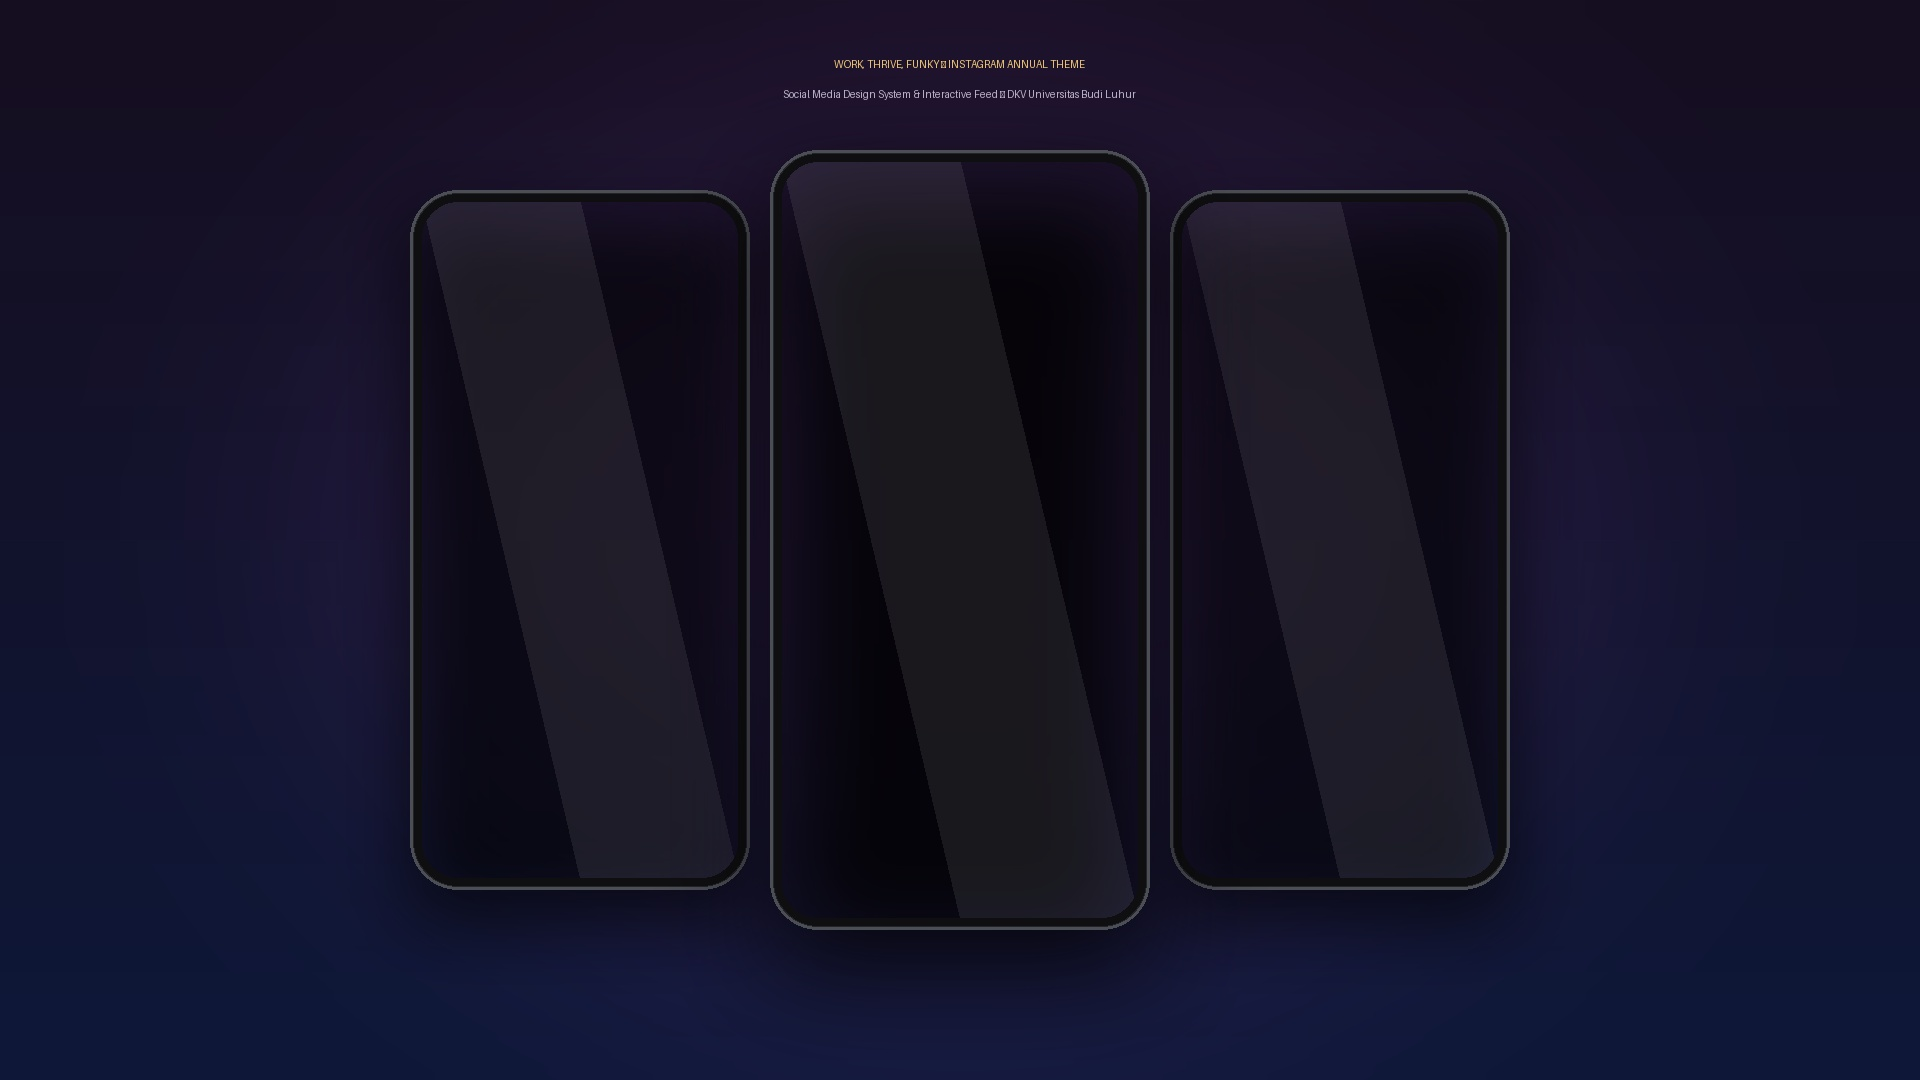
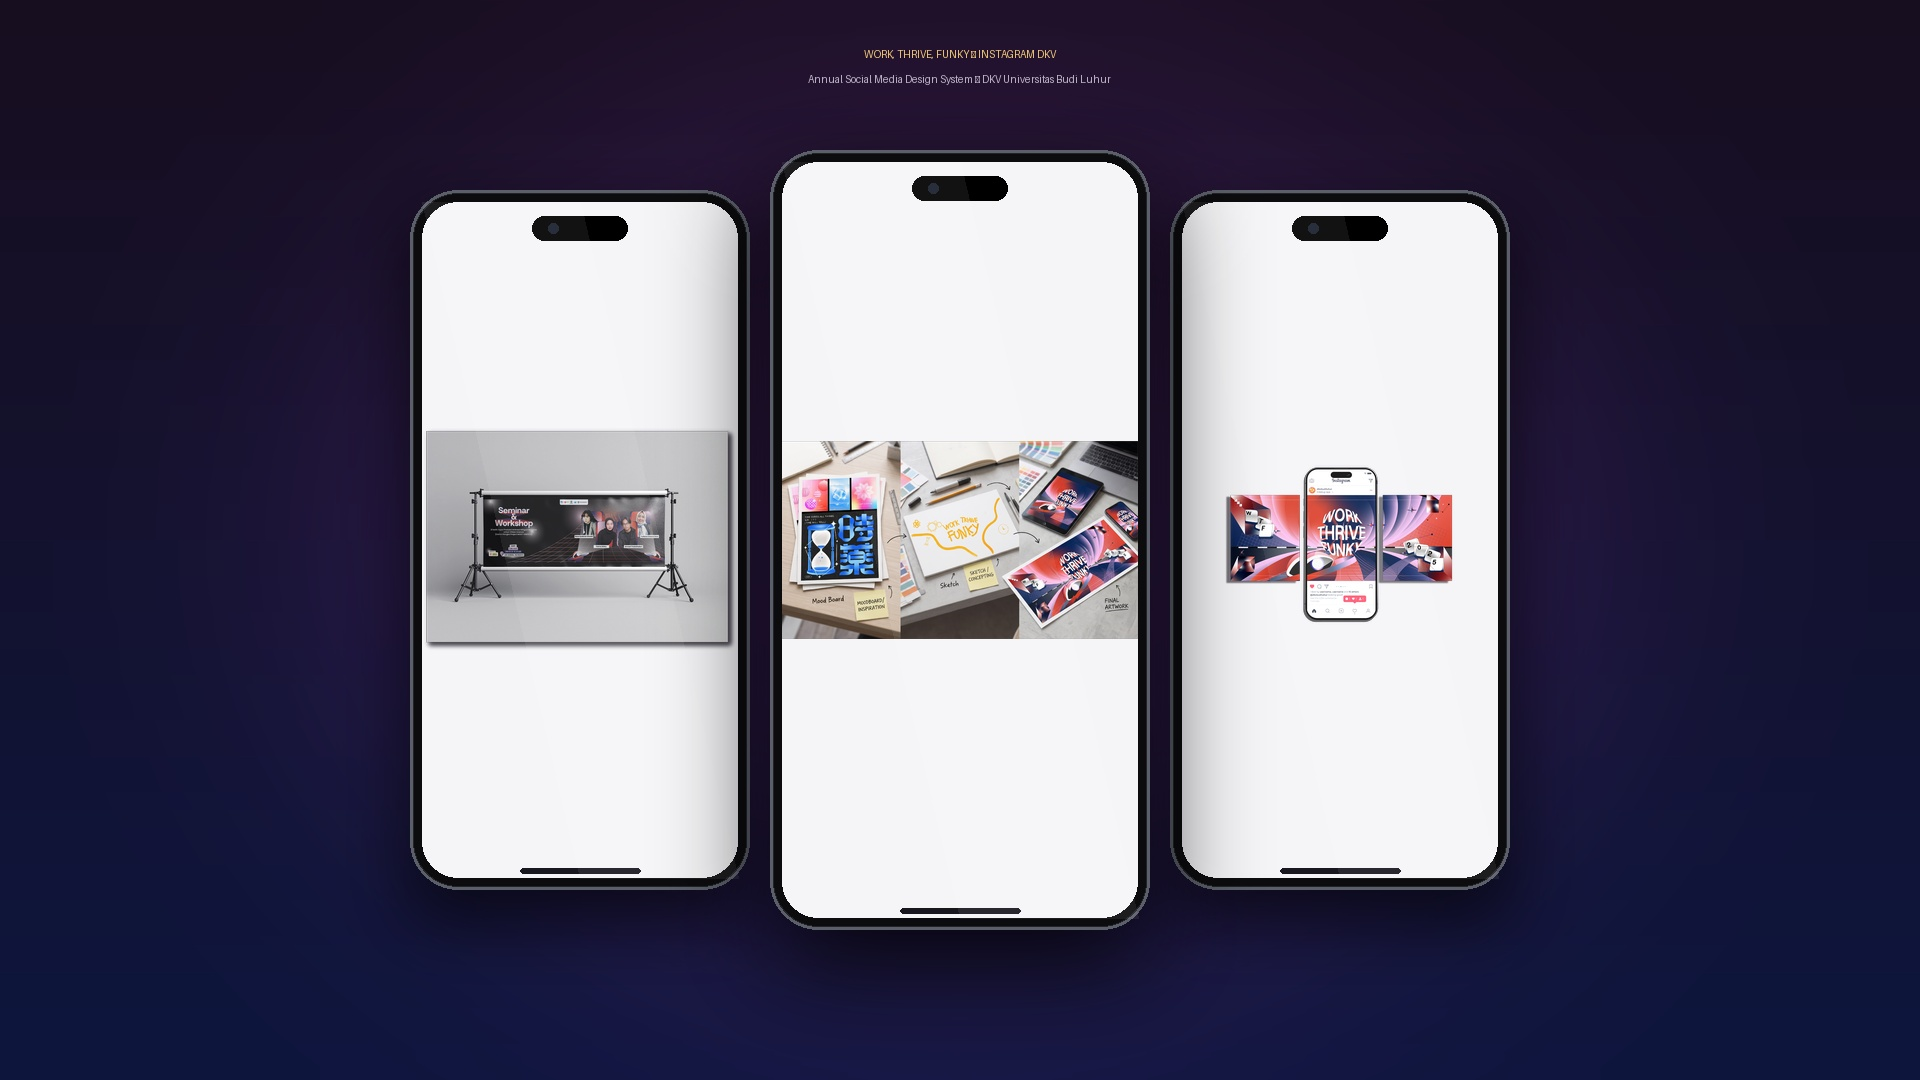
Filter gallery to exclusively display actual event folders with event title badges

diff --git a/index.html b/index.html
@@ -433,8 +433,8 @@
           </div>
         </div>
 
-        <!-- Gallery Grid -->
-        <div class="grid grid-cols-1 sm:grid-cols-2 lg:grid-cols-3 gap-6" id="portfolioGrid">
+        <!-- Gallery Grid (Hanya Event Asli dari Folder) -->
+        <div class="grid grid-cols-1 md:grid-cols-2 gap-8 max-w-5xl mx-auto" id="portfolioGrid">
           
           <!-- Event 1: EUFORATIVE -->
           <div class="portfolio-item group cursor-pointer relative rounded-2xl overflow-hidden cosmic-card border border-[#C9A24B]/30 hover:border-[#E5C368]"
@@ -450,7 +450,7 @@
             <div class="aspect-[16/10] overflow-hidden bg-black relative">
               <img src="assets/events/euforative/mockup-standing-banners.jpg" alt="EUFORATIVE Mockup" class="w-full h-full object-cover group-hover:scale-105 transition duration-500" />
               <div class="absolute inset-0 bg-gradient-to-t from-black/90 via-black/30 to-transparent opacity-60 group-hover:opacity-90 transition-opacity"></div>
-              <span class="absolute top-4 left-4 text-[10px] font-arcane font-bold tracking-wider uppercase px-2.5 py-1 rounded-full bg-[#8F1D33]/85 text-[#F7F2EA] border border-[#C9A24B]/40 shadow-sm">Key Visual</span>
+              <span class="absolute top-4 left-4 text-[10px] font-galaxy font-bold tracking-wider uppercase px-3 py-1 rounded-full bg-[#8F1D33]/90 text-[#F7F2EA] border border-[#C9A24B]/40 shadow-sm">EUFORATIVE</span>
               <span class="absolute top-4 right-4 text-[11px] font-semibold px-2.5 py-0.5 rounded-md bg-black/70 text-cosmic-brightGold border border-[#C9A24B]/30 flex items-center gap-1">
                 <i data-lucide="images" class="w-3 h-3 text-[#C9A24B]"></i> 7 Foto & Mockup
               </span>
@@ -481,7 +481,7 @@
             <div class="aspect-[16/10] overflow-hidden bg-black relative">
               <img src="assets/events/work-thrive-funky/mockup-mobile-screens.jpg" alt="WORK, THRIVE, FUNKY Mockup" class="w-full h-full object-cover group-hover:scale-105 transition duration-500" />
               <div class="absolute inset-0 bg-gradient-to-t from-black/90 via-black/30 to-transparent opacity-60 group-hover:opacity-90 transition-opacity"></div>
-              <span class="absolute top-4 left-4 text-[10px] font-arcane font-bold tracking-wider uppercase px-2.5 py-1 rounded-full bg-[#5B2A86]/85 text-[#F7F2EA] border border-[#C9A24B]/40 shadow-sm">Social Media</span>
+              <span class="absolute top-4 left-4 text-[10px] font-galaxy font-bold tracking-wider uppercase px-3 py-1 rounded-full bg-[#5B2A86]/90 text-[#F7F2EA] border border-[#C9A24B]/40 shadow-sm">WORK, THRIVE, FUNKY</span>
               <span class="absolute top-4 right-4 text-[11px] font-semibold px-2.5 py-0.5 rounded-md bg-black/70 text-cosmic-brightGold border border-[#C9A24B]/30 flex items-center gap-1">
                 <i data-lucide="images" class="w-3 h-3 text-[#5B2A86]"></i> 5 Foto & Mockup
               </span>
@@ -498,30 +498,30 @@
             </div>
           </div>
 
-          <!-- Event 3: Template Instagram -->
+          <!-- Event 3: KKN Tematik NTT -->
           <div class="portfolio-item group cursor-pointer relative rounded-2xl overflow-hidden cosmic-card border border-[#C9A24B]/30 hover:border-[#E5C368]"
-               data-category="socialmedia"
-               data-title="Sistem Template Instagram & Feed Kampus"
-               data-title-en="Instagram Template System & Campus Feed"
-               data-year="2024 - 2025"
-               data-cat-label="Instagram Template System"
-               data-desc="Perancangan sistem template feed, multi-slide carousel, dan story Instagram yang terstruktur untuk menampung konten publikasi harian, pengumuman perkuliahan, dan showcase karya mahasiswa DKV."
-               data-desc-en="Design of a structured Instagram feed, multi-slide carousel, and stories template system to house regular academic content, campus announcements, and student design showcases."
+               data-category="campaign"
+               data-title="KKN Tematik Merajut Nusantara III — NTT"
+               data-title-en="Merajut Nusantara III NTT Thematic Program"
+               data-year="2025"
+               data-cat-label="Brand & Cultural Identity"
+               data-desc="Sebagai Leader Desain, memegang tanggung jawab penuh atas identitas visual program KKN Tematik di Nusa Tenggara Timur. Mengembangkan key visual, poster kegiatan, formulir pendaftaran, plakat cenderamata, dan atribut lapangan dengan memadukan ragam hias tenun ikat nusantara serta lanskap pesisir (#E7CCAB, #A05234, #2F4359)."
+               data-desc-en="As Design Leader, led the complete visual identity for the community development program in East Nusa Tenggara (NTT). Integrated local ikat weave motifs, commemorative plaque, and field assets with clear informative layout."
                data-tools="Adobe Illustrator, Photoshop"
-               data-photos='["assets/img/page_11.jpg", "assets/img/page_12.jpg", "assets/img/page_13.jpg"]'>
+               data-photos='["assets/events/kkn-ntt/mockup-plakat-showcase.jpg", "assets/events/kkn-ntt/mockup-lanyard-badge.jpg", "assets/events/kkn-ntt/mockup-framed-poster.jpg", "assets/events/kkn-ntt/Asset 5.png", "assets/events/kkn-ntt/Asset 12.png", "assets/events/kkn-ntt/Asset 10.png", "assets/events/kkn-ntt/Asset 11.png"]'>
             <div class="aspect-[16/10] overflow-hidden bg-black relative">
-              <img src="assets/img/page_11.jpg" alt="Template Instagram" class="w-full h-full object-cover group-hover:scale-105 transition duration-500" />
+              <img src="assets/events/kkn-ntt/mockup-plakat-showcase.jpg" alt="KKN NTT Mockup" class="w-full h-full object-cover group-hover:scale-105 transition duration-500" />
               <div class="absolute inset-0 bg-gradient-to-t from-black/90 via-black/30 to-transparent opacity-60 group-hover:opacity-90 transition-opacity"></div>
-              <span class="absolute top-4 left-4 text-[10px] font-arcane font-bold tracking-wider uppercase px-2.5 py-1 rounded-full bg-[#5B2A86]/85 text-[#F7F2EA] border border-[#C9A24B]/40 shadow-sm">Editorial</span>
+              <span class="absolute top-4 left-4 text-[10px] font-galaxy font-bold tracking-wider uppercase px-3 py-1 rounded-full bg-[#8F1D33]/90 text-[#F7F2EA] border border-[#C9A24B]/40 shadow-sm">KKN TEMATIK NTT</span>
               <span class="absolute top-4 right-4 text-[11px] font-semibold px-2.5 py-0.5 rounded-md bg-black/70 text-cosmic-brightGold border border-[#C9A24B]/30 flex items-center gap-1">
-                <i data-lucide="images" class="w-3 h-3 text-[#C9A24B]"></i> 3 Foto
+                <i data-lucide="images" class="w-3 h-3 text-[#C9A24B]"></i> 7 Foto & Mockup
               </span>
             </div>
             <div class="p-5">
-              <h3 class="font-arcane font-bold text-cosmic-brightGold text-base group-hover:text-white transition-colors">Template Instagram & Grid System</h3>
-              <p class="text-xs text-zinc-400 mt-1.5 line-clamp-2" data-i18n-card="template_short">Sistem grid dan tata letak modular untuk publikasi konten media sosial.</p>
+              <h3 class="font-arcane font-bold text-cosmic-brightGold text-base group-hover:text-white transition-colors">KKN Tematik Nusantara III (NTT)</h3>
+              <p class="text-xs text-zinc-400 mt-1.5 line-clamp-2" data-i18n-card="kkn_short">Identitas visual program pengabdian dengan sentuhan motif tenun ikat daerah.</p>
               <div class="mt-4 flex items-center justify-between text-xs text-zinc-500 border-t border-[#C9A24B]/15 pt-3">
-                <span class="text-zinc-400 font-arcane">Design System</span>
+                <span class="text-[#8F1D33] font-arcane">Universitas Budi Luhur</span>
                 <span class="text-cosmic-brightGold flex items-center gap-1 font-semibold group-hover:translate-x-1 transition-transform">
                   <span data-i18n="gallery.open_album">Buka Album</span> <i data-lucide="chevron-right" class="w-3.5 h-3.5"></i>
                 </span>
@@ -543,7 +543,7 @@
             <div class="aspect-[16/10] overflow-hidden bg-black relative">
               <img src="assets/events/world-cleanup-day/mockup-city-poster.jpg" alt="World Clean Up Day Mockup" class="w-full h-full object-cover group-hover:scale-105 transition duration-500" />
               <div class="absolute inset-0 bg-gradient-to-t from-black/90 via-black/30 to-transparent opacity-60 group-hover:opacity-90 transition-opacity"></div>
-              <span class="absolute top-4 left-4 text-[10px] font-arcane font-bold tracking-wider uppercase px-2.5 py-1 rounded-full bg-[#8F1D33]/85 text-[#F7F2EA] border border-[#C9A24B]/40 shadow-sm">Campaign</span>
+              <span class="absolute top-4 left-4 text-[10px] font-galaxy font-bold tracking-wider uppercase px-3 py-1 rounded-full bg-[#08676F]/90 text-[#F7F2EA] border border-[#C9A24B]/40 shadow-sm">WORLD CLEANUP DAY</span>
               <span class="absolute top-4 right-4 text-[11px] font-semibold px-2.5 py-0.5 rounded-md bg-black/70 text-cosmic-brightGold border border-[#C9A24B]/30 flex items-center gap-1">
                 <i data-lucide="images" class="w-3 h-3 text-[#8F1D33]"></i> 5 Foto & Mockup
               </span>
@@ -553,68 +553,6 @@
               <p class="text-xs text-zinc-400 mt-1.5 line-clamp-2" data-i18n-card="cleanup_short">Eksplorasi tipografi ilustratif untuk kampanye lingkungan berkelanjutan.</p>
               <div class="mt-4 flex items-center justify-between text-xs text-zinc-500 border-t border-[#C9A24B]/15 pt-3">
                 <span class="text-[#8E4EC6] font-arcane">Bank Sampah UBL</span>
-                <span class="text-cosmic-brightGold flex items-center gap-1 font-semibold group-hover:translate-x-1 transition-transform">
-                  <span data-i18n="gallery.open_album">Buka Album</span> <i data-lucide="chevron-right" class="w-3.5 h-3.5"></i>
-                </span>
-              </div>
-            </div>
-          </div>
-
-          <!-- Event 5: KKN Tematik NTT -->
-          <div class="portfolio-item group cursor-pointer relative rounded-2xl overflow-hidden cosmic-card border border-[#C9A24B]/30 hover:border-[#E5C368]"
-               data-category="campaign"
-               data-title="KKN Tematik Merajut Nusantara III — NTT"
-               data-title-en="Merajut Nusantara III NTT Thematic Program"
-               data-year="2025"
-               data-cat-label="Brand & Cultural Identity"
-               data-desc="Sebagai Leader Desain, memegang tanggung jawab penuh atas identitas visual program KKN Tematik di Nusa Tenggara Timur. Mengembangkan key visual, poster kegiatan, formulir pendaftaran, dan atribut lapangan dengan memadukan ragam hias tenun ikat nusantara serta lanskap pesisir (#E7CCAB, #A05234, #2F4359)."
-               data-desc-en="As Design Leader, led the complete visual identity for the community development program in East Nusa Tenggara (NTT). Integrated local ikat weave motifs and coastal landscape with clear informative layout."
-               data-tools="Adobe Illustrator, Photoshop"
-               data-photos='["assets/events/kkn-ntt/mockup-framed-poster.jpg", "assets/events/kkn-ntt/mockup-lanyard-badge.jpg", "assets/events/kkn-ntt/Asset 5.png", "assets/events/kkn-ntt/Asset 6.png", "assets/events/kkn-ntt/Asset 12.png", "assets/events/kkn-ntt/Asset 10.png", "assets/events/kkn-ntt/Asset 11.png"]'>
-            <div class="aspect-[16/10] overflow-hidden bg-black relative">
-              <img src="assets/events/kkn-ntt/mockup-framed-poster.jpg" alt="KKN NTT Mockup" class="w-full h-full object-cover group-hover:scale-105 transition duration-500" />
-              <div class="absolute inset-0 bg-gradient-to-t from-black/90 via-black/30 to-transparent opacity-60 group-hover:opacity-90 transition-opacity"></div>
-              <span class="absolute top-4 left-4 text-[10px] font-arcane font-bold tracking-wider uppercase px-2.5 py-1 rounded-full bg-[#8F1D33]/85 text-[#F7F2EA] border border-[#C9A24B]/40 shadow-sm">Leader Desain</span>
-              <span class="absolute top-4 right-4 text-[11px] font-semibold px-2.5 py-0.5 rounded-md bg-black/70 text-cosmic-brightGold border border-[#C9A24B]/30 flex items-center gap-1">
-                <i data-lucide="images" class="w-3 h-3 text-[#C9A24B]"></i> 7 Foto & Mockup
-              </span>
-            </div>
-            <div class="p-5">
-              <h3 class="font-arcane font-bold text-cosmic-brightGold text-base group-hover:text-white transition-colors">KKN Tematik Nusantara III (NTT)</h3>
-              <p class="text-xs text-zinc-400 mt-1.5 line-clamp-2" data-i18n-card="kkn_short">Identitas visual program pengabdian dengan sentuhan motif tenun ikat daerah.</p>
-              <div class="mt-4 flex items-center justify-between text-xs text-zinc-500 border-t border-[#C9A24B]/15 pt-3">
-                <span class="text-[#8F1D33] font-arcane">Universitas Budi Luhur</span>
-                <span class="text-cosmic-brightGold flex items-center gap-1 font-semibold group-hover:translate-x-1 transition-transform">
-                  <span data-i18n="gallery.open_album">Buka Album</span> <i data-lucide="chevron-right" class="w-3.5 h-3.5"></i>
-                </span>
-              </div>
-            </div>
-          </div>
-
-          <!-- Event 6: Visual Direction & Event -->
-          <div class="portfolio-item group cursor-pointer relative rounded-2xl overflow-hidden cosmic-card border border-[#C9A24B]/30 hover:border-[#E5C368]"
-               data-category="keyvisual"
-               data-title="Visual Direction & Event Key Visual"
-               data-title-en="Visual Direction & Event Key Visual"
-               data-year="2024 - 2025"
-               data-cat-label="Key Visual Direction"
-               data-desc="Memimpin arahan visual dari konsep awal hingga eksekusi akhir untuk agenda acara kampus. Menerjemahkan tema acara yang ekspresif ke dalam visual identity yang tegas, berani, serta konsisten di media promosi sosial dan properti acara."
-               data-desc-en="Led visual direction from concept to production for major university events. Translated raw expressive themes into bold visual identities across social media and stage production."
-               data-tools="Adobe Illustrator, Photoshop, Digital Imaging"
-               data-photos='["assets/img/page_18.jpg", "assets/img/page_19.jpg", "assets/img/page_22.jpg"]'>
-            <div class="aspect-[16/10] overflow-hidden bg-black relative">
-              <img src="assets/img/page_18.jpg" alt="Visual Direction" class="w-full h-full object-cover group-hover:scale-105 transition duration-500" />
-              <div class="absolute inset-0 bg-gradient-to-t from-black/90 via-black/30 to-transparent opacity-60 group-hover:opacity-90 transition-opacity"></div>
-              <span class="absolute top-4 left-4 text-[10px] font-arcane font-bold tracking-wider uppercase px-2.5 py-1 rounded-full bg-[#5B2A86]/85 text-[#F7F2EA] border border-[#C9A24B]/40 shadow-sm">Direction</span>
-              <span class="absolute top-4 right-4 text-[11px] font-semibold px-2.5 py-0.5 rounded-md bg-black/70 text-cosmic-brightGold border border-[#C9A24B]/30 flex items-center gap-1">
-                <i data-lucide="images" class="w-3 h-3 text-[#5B2A86]"></i> 3 Foto
-              </span>
-            </div>
-            <div class="p-5">
-              <h3 class="font-arcane font-bold text-cosmic-brightGold text-base group-hover:text-white transition-colors">Event Visual Direction & Branding</h3>
-              <p class="text-xs text-zinc-400 mt-1.5 line-clamp-2" data-i18n-card="event_short">Desain panggung, aset sosial media, dan identitas visual acara kampus.</p>
-              <div class="mt-4 flex items-center justify-between text-xs text-zinc-500 border-t border-[#C9A24B]/15 pt-3">
-                <span class="text-[#8E4EC6] font-arcane">Budi Luhur Event</span>
                 <span class="text-cosmic-brightGold flex items-center gap-1 font-semibold group-hover:translate-x-1 transition-transform">
                   <span data-i18n="gallery.open_album">Buka Album</span> <i data-lucide="chevron-right" class="w-3.5 h-3.5"></i>
                 </span>
